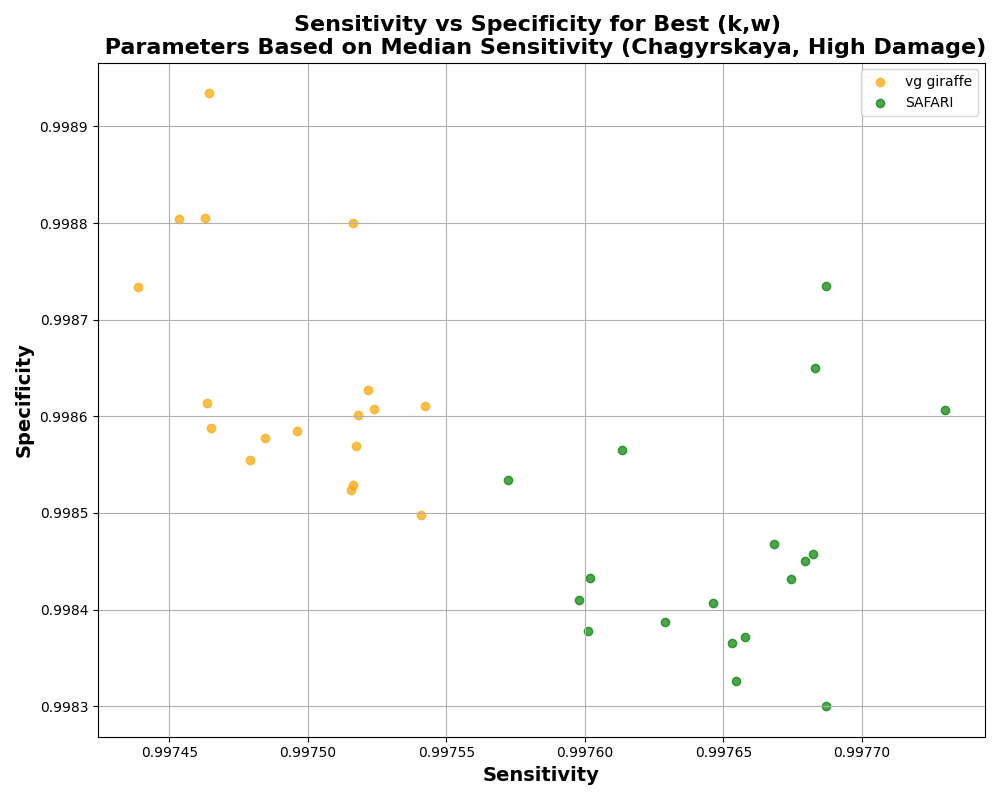
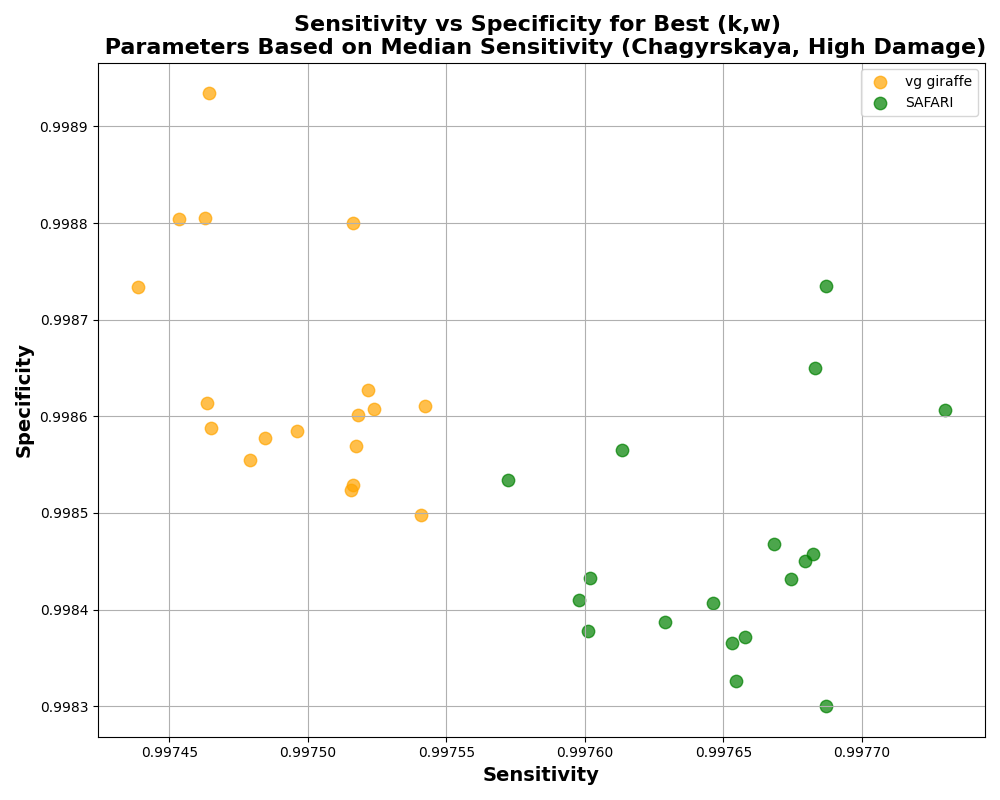
Update

diff --git a/linear_experiment/human_mito/stat_results/plot_svs_high.py b/linear_experiment/human_mito/stat_results/plot_svs_high.py
@@ -43,7 +43,7 @@ def plot_best_sensitivity(data_path):
     # Plot each tool with its assigned color
     for tool in tools:
         tool_data = best_sensitivity_data[best_sensitivity_data['tool'] == tool]
-        plt.scatter(tool_data['sensitivity'], tool_data['specificity'], label=f'{tool}', color=tool_colors[tool], alpha=0.7)
+        plt.scatter(tool_data['sensitivity'], tool_data['specificity'], label=f'{tool}', color=tool_colors[tool], alpha=0.7, s=80)
 
     plt.title('Sensitivity vs Specificity for Best (k,w) \n Parameters Based on Median Sensitivity (' + sys.argv[3] + ", High Damage)", fontsize=16, fontweight='bold')
     plt.xlabel('Sensitivity', fontsize=14, fontweight='bold')
